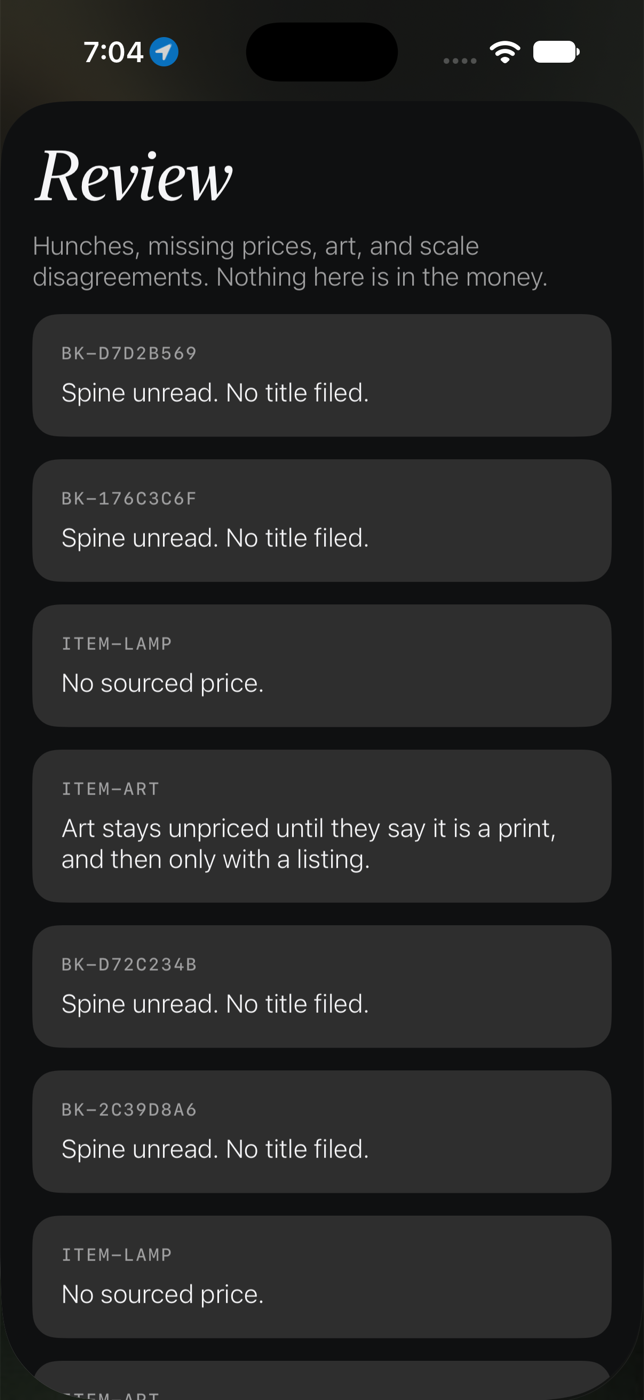
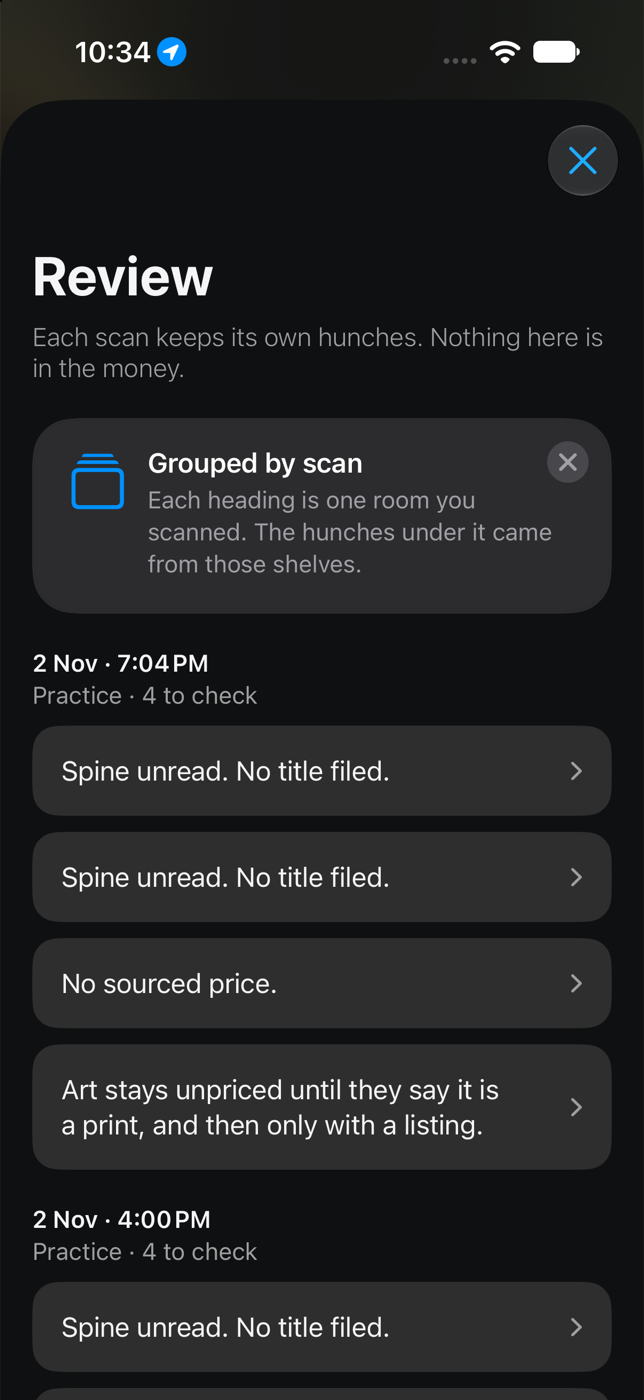
Document the shelf scan: the first-open sheet, Scan shelves, and the current screens.

diff --git a/Sweep/Views/HomeView.swift b/Sweep/Views/HomeView.swift
@@ -15,6 +15,8 @@ struct HomeView: View {
     @State private var showHistory = false
     @State private var showReview = false
     @State private var showSettings = false
+    @AppStorage("sweep.didSeeOnboarding") private var didSeeOnboarding = false
+    @State private var showOnboarding = false
 
     var body: some View {
         GeometryReader { geo in
@@ -36,14 +38,14 @@ struct HomeView: View {
                             showHistory = true
                         } label: { latestCard(radius: corner - edge, bottomInset: 0) }
                             .buttonStyle(.plain)
-                            .popoverTip(LatestWalkTip(), arrowEdge: .bottom)
+                            .modifier(GatedTip(tip: LatestWalkTip(), show: didSeeOnboarding, arrow: .bottom))
                         Button {
                             ReviewTip().invalidate(reason: .actionPerformed)
                             Walkthrough.advance(to: 2)
                             showReview = true
                         } label: { reviewCard(radius: corner - edge, bottomInset: 0) }
                             .buttonStyle(.plain)
-                            .popoverTip(ReviewTip(), arrowEdge: .bottom)
+                            .modifier(GatedTip(tip: ReviewTip(), show: didSeeOnboarding, arrow: .bottom))
                     }
                     .frame(maxWidth: .infinity, maxHeight: .infinity)
                     .padding(.horizontal, edge)
@@ -57,6 +59,7 @@ struct HomeView: View {
         .onAppear {
             place.start()
             model.reload()
+            if !didSeeOnboarding { showOnboarding = true }
         }
         .task { await Walkthrough.watch(StartWalkTip(), advanceTo: 1) }
         .task { await Walkthrough.watch(ReviewTip(), advanceTo: 2) }
@@ -76,6 +79,15 @@ struct HomeView: View {
         .sheet(isPresented: $showSettings) {
             SettingsView()
         }
+        .sheet(isPresented: $showOnboarding, onDismiss: finishOnboarding) {
+            OnboardingSheet(done: { showOnboarding = false })
+        }
+    }
+
+    private func finishOnboarding() {
+        didSeeOnboarding = true
+        StartWalkTip().invalidate(reason: .actionPerformed)
+        Walkthrough.advance(to: 1)
     }
 
     private func glassHero(topInset: CGFloat, corner: CGFloat) -> some View {
@@ -98,7 +110,7 @@ struct HomeView: View {
                         .foregroundStyle(.black)
                         .frame(width: 68, height: 68)
                         .background(.white, in: Circle())
-                    Text("Start walk")
+                    Text("Scan shelves")
                         .font(.headline)
                     Text("One room")
                         .font(.footnote)
@@ -107,8 +119,7 @@ struct HomeView: View {
                 .foregroundStyle(.white)
             }
             .buttonStyle(.plain)
-            .accessibilityLabel("Start a walk of one room")
-            .popoverTip(StartWalkTip(), arrowEdge: .top)
+            .accessibilityLabel("Scan the shelves in one room")
             .padding(.bottom, 28)
         }
         .frame(maxWidth: .infinity, maxHeight: .infinity, alignment: .top)
@@ -160,7 +171,7 @@ struct HomeView: View {
                 }
                 .buttonStyle(.plain)
                 .accessibilityLabel("Practice the rules")
-                .popoverTip(PracticeTip(), arrowEdge: .bottom)
+                .modifier(GatedTip(tip: PracticeTip(), show: didSeeOnboarding, arrow: .bottom))
                 Spacer()
                 Button {
                     showSettings = true
@@ -311,6 +322,51 @@ struct HomeView: View {
         return "\(latest.reviewCount)"
     }
 
+}
+
+private struct GatedTip<T: Tip>: ViewModifier {
+    var tip: T
+    var show: Bool
+    var arrow: Edge
+
+    func body(content: Content) -> some View {
+        if show {
+            content.popoverTip(tip, arrowEdge: arrow)
+        } else {
+            content
+        }
+    }
+}
+
+private struct OnboardingSheet: View {
+    var done: () -> Void
+
+    var body: some View {
+        VStack(alignment: .leading, spacing: 16) {
+            Text("Scan the shelves")
+                .font(.largeTitle.bold())
+            Text("Sweep reads the books in one room. Show each shelf, then end the scan.")
+                .font(.body)
+            Text("Titles it can name are filed. Anything unsure waits for you to check.")
+                .font(.body)
+                .foregroundStyle(.secondary)
+            Spacer(minLength: 12)
+            Button(action: done) {
+                Text("Continue")
+                    .font(.headline)
+                    .frame(maxWidth: .infinity)
+                    .padding(.vertical, 16)
+                    .background(.white, in: Capsule())
+                    .foregroundStyle(.black)
+            }
+            .buttonStyle(.plain)
+        }
+        .padding(24)
+        .padding(.top, 12)
+        .frame(maxWidth: .infinity, maxHeight: .infinity, alignment: .topLeading)
+        .presentationDetents([.medium])
+        .presentationDragIndicator(.visible)
+    }
 }
 
 /// Display corner radius in points. Apple's Liquid Glass layout calls this concentric:

diff --git a/Sweep/App/WalkthroughTips.swift b/Sweep/App/WalkthroughTips.swift
@@ -23,30 +23,30 @@ enum Walkthrough {
 }
 
 struct StartWalkTip: Tip {
-    var title: Text { Text("Start a walk") }
-    var message: Text? { Text("Show the shelves in one room. Sweep reads the spines as you go.") }
-    var image: Image? { Image(systemName: "figure.walk") }
+    var title: Text { Text("Scan shelves") }
+    var message: Text? { Text("Show each shelf in this room. Sweep reads the books as you go.") }
+    var image: Image? { Image(systemName: "books.vertical") }
     var options: [any TipOption] { Walkthrough.once }
 }
 
 struct EndWalkTip: Tip {
-    var title: Text { Text("End the walk") }
-    var message: Text? { Text("When the room is done, stop. Sweep reads the saved frames and files the packet.") }
+    var title: Text { Text("End the scan") }
+    var message: Text? { Text("When the room is done, stop. Sweep reads the saved frames and files the books.") }
     var image: Image? { Image(systemName: "checkmark.circle") }
     var options: [any TipOption] { Walkthrough.once }
 }
 
 struct ReviewTip: Tip {
     var title: Text { Text("Check hunches") }
-    var message: Text? { Text("Open this when a walk needs a person. Keep a title that is right, or remove it.") }
+    var message: Text? { Text("Unsure books wait here. Keep a title that is right, or remove it.") }
     var image: Image? { Image(systemName: "checklist") }
     var rules: [Rule] { #Rule(Walkthrough.$step) { $0 >= 1 } }
     var options: [any TipOption] { Walkthrough.once }
 }
 
 struct ReviewPageTip: Tip {
-    var title: Text { Text("Grouped by walk") }
-    var message: Text? { Text("Each heading is one walk. The hunches under it came from that walk.") }
+    var title: Text { Text("Grouped by scan") }
+    var message: Text? { Text("Each heading is one room you scanned. The hunches under it came from those shelves.") }
     var image: Image? { Image(systemName: "rectangle.stack") }
     var options: [any TipOption] { Walkthrough.once }
 }

diff --git a/Sweep/Views/ArchiveViews.swift b/Sweep/Views/ArchiveViews.swift
@@ -12,7 +12,7 @@ struct WalksView: View {
                 VStack(alignment: .leading, spacing: 14) {
                     PageTitle(
                         title: "Walks",
-                        subtitle: "Each finished walk keeps its packet. Confirming a hunch writes the next version."
+                        subtitle: "Each finished scan keeps its packet. Confirming a hunch writes the next version."
                     )
                     Button {
                         practice = SweepSession(settings: model.settings, store: model.store, practice: true)
@@ -30,7 +30,7 @@ struct WalksView: View {
                     .buttonStyle(.plain)
                     .accessibilityLabel("Practice the rules")
                     if model.sessions.isEmpty {
-                        EmptyNote(text: "No walks yet. Start one from Home, or practice the rules.")
+                        EmptyNote(text: "No scans yet. Scan the shelves from Home, or practice the rules.")
                     }
                     ForEach(model.sessions) { summary in
                         NavigationLink {
@@ -76,7 +76,7 @@ struct ReviewView: View {
                 VStack(alignment: .leading, spacing: 22) {
                     PageTitle(
                         title: "Review",
-                        subtitle: "Each walk keeps its own hunches. Nothing here is in the money."
+                        subtitle: "Each scan keeps its own hunches. Nothing here is in the money."
                     )
                     TipView(ReviewPageTip())
                     let walks = reviewWalks

diff --git a/Sweep/Views/WalkView.swift b/Sweep/Views/WalkView.swift
@@ -84,7 +84,7 @@ struct WalkView: View {
         let filed = session.engine.books.filter { !$0.excluded }
         let rows = session.packet == nil ? Array(filed.suffix(4)) : filed
         return VStack(alignment: .leading, spacing: 6) {
-            Text(filed.isEmpty ? "Walk this room once, then end the walk." : "\(filed.count) \(filed.count == 1 ? "book" : "books")")
+            Text(filed.isEmpty ? "Show each shelf, then end the scan." : "\(filed.count) \(filed.count == 1 ? "book" : "books")")
                 .font(.subheadline.weight(.semibold))
                 .foregroundStyle(Theme.ash)
             Group {
@@ -160,7 +160,7 @@ struct WalkView: View {
     private var walkButton: String {
         if session.packet != nil { return "Done" }
         if session.reading || session.engine.phase == .finishing { return "Reading" }
-        return "End walk"
+        return "End scan"
     }
 
     private func begin() async {
@@ -205,7 +205,7 @@ struct SpineGuide: View {
     var straighten: Bool
 
     var body: some View {
-        Label(straighten ? "Hold still" : "Walk the shelf", systemImage: straighten ? "pause.circle" : "figure.walk")
+        Label(straighten ? "Hold still" : "Along the shelf", systemImage: straighten ? "pause.circle" : "books.vertical")
             .font(.headline)
             .foregroundStyle(Theme.cloud)
             .padding(.horizontal, 18)

diff --git a/README.md b/README.md
@@ -37,9 +37,9 @@ The product is one continuous pass of one room. The person is not asked to pull 
 
 | Requirement | What the app does |
 | --- | --- |
-| iPhone, no LiDAR | ARKit motion tracking plus on-device Vision. No RoomPlan. |
+| iPhone, no LiDAR | ARKit motion tracking plus on-device Vision. No RoomPlan. The phone’s tilt is not used for the interface. |
 | Scale | A bank card, ISO ID-1, 85.60 mm by 53.98 mm. Books use the card. The room uses the card’s correction of the tracking. If they disagree past the threshold, both numbers stay on the packet and they are not averaged. |
-| Eyes | Vision text, rectangles, image classification, blur, and glare. Frames are not sent to a cloud OCR. |
+| Eyes | Vision text, rectangles, image classification, blur, and glare. Frames are not sent to a cloud OCR. The camera stays off until Scan shelves. |
 | Mouth | The state machine chooses the sentence. Gemini Live may speak that sentence when a key is present. The model is never asked for a title, a price, or a total. |
 | Ear | On-device speech. An unclear phrase can be classified by Gemini into a fixed list: confirm, first edition, skip shelf, print, original, United States dollars, or none. |
 | Locale | The running app reads the country and currency from the phone’s location and starts the walk. The assignment text still says the claim locale is confirmed out loud or with a chip. That question was removed because it stopped the scan. |
@@ -62,29 +62,39 @@ Those bars were not met on the shelves that were graded. The comparison is in [H
 
 ## Pages
 
+### First open
+
+The first launch is one bottom sheet. It says what the app does: Sweep reads the books in one room, you show each shelf and end the scan, named titles are filed, and anything unsure waits to be checked. **Continue** closes it. It does not show again.
+
+![The first-open sheet. Scan the shelves, then Continue.](docs/screenshots/onboarding.png)
+
 ### Home
 
-The count is identified books on the latest finished packet. The city and the currency come from location. On this simulator that resolved to New York and USD. On the phone it is the city the phone is in. The dial’s plus starts one room. **Practice** starts the scripted replay. **Sweep** opens Settings. The left card opens Walks. The right card opens Review.
+The count is identified books on the latest finished packet. The city and the currency come from location. On this simulator that resolved to New York and USD. On the phone it is the city the phone is in. The large glass is 35/48 of the screen. The two cards share the rest, with a 12-point gap between the glass and the cards, between the cards, and at the sides and the bottom. The plus says **Scan shelves**, and the line under it says **One room**. **Practice** starts the scripted replay. The gear opens Settings. **Latest walk** opens the list of scans. **To review** opens the hunches.
 
-![Home. Books identified, the located city and currency, Practice, One room, the latest packet, and the review count.](docs/screenshots/home.png)
+There is no motion dial. The background drifts on its own.
 
-### The walk
+![Home. Scan shelves for one room, the located city and currency, the latest packet, and the review count.](docs/screenshots/home.png)
 
-Plus opens the camera and the walk starts. There is no currency question. The line under the picture says to walk the room once, then end the walk. Spines show up as they are logged. **End walk** is the only way it finishes. The phone then reads the saved frames, prices what it can, and speaks the count. The simulator picture is black because there is no camera. On the phone this is the live preview.
+After the sheet, TipKit shows one tip at a time. Closing a tip, or using the control it points at, reveals the next. The order is check hunches, then latest walk, then practice. A real scan also gets a tip on **End scan**. The review page gets a tip the first time it opens, explaining that the list is grouped by scan.
 
-![The walk, before any book is logged. End walk is the only way out.](docs/screenshots/walk.png)
+### The scan
+
+**Scan shelves** opens the camera and the scan starts. There is no currency question. The line under the picture says to show each shelf, then end the scan. Spines show up as they are logged. **End scan** is the only way it finishes. The phone then reads the saved frames, prices what it can, and speaks the count. The simulator picture is black because there is no camera. On the phone this is the live preview.
+
+![The scan, before any book is logged. End scan is the only way out.](docs/screenshots/walk.png)
 
 After a finished pass the same screen reads the result back. This one is the practice replay: three books, one identified, a sourced total, and four lines that still need a person.
 
-![The spoken result after a practice walk.](docs/screenshots/practice.png)
+![The spoken result after a practice scan.](docs/screenshots/practice.png)
 
-During a real walk the voice asks at most twice. You can still answer if it asked something. Most of the time you only show the shelves.
+During a real scan the voice asks at most twice. You can still answer if it asked something. Most of the time you only show the shelves.
 
 ### Walks
 
-Every finished walk stays in the list. A practice row is labeled practice. Opening a row opens the packet. **Practice the rules** runs the same rules on scripted observations and is not a claim.
+Every finished scan stays in the list. A practice row is labeled practice. Opening a row opens the packet. **Practice the rules** runs the same rules on scripted observations and is not a claim. A row that says “Walk open” was started and not finished, so it has no packet yet.
 
-![Walks. Practice the rules, and one row per finished walk.](docs/screenshots/walks.png)
+![Walks. Practice the rules, and one row per scan.](docs/screenshots/walks.png)
 
 ### Packet
 
@@ -101,9 +111,9 @@ Identified books do not get those buttons. The packet in the screenshot is the p
 
 ### Review
 
-Review is the task list. Nothing on it is in the money. The rows in this shot are unread spines, a lamp with no listing, and framed art that stays unpriced until someone says it is a print and a listing exists. Those rows are not hunches, so they have no check and no cross. A hunch row shows the candidate title and the two buttons.
+Review is the task list, grouped by the scan the lines came from. Each heading is the date and time of that scan, then the version or the practice label, and how many lines are left to check. Nothing on the page is in the money. The rows in this shot are unread spines, a book with no sourced price, and framed art that stays unpriced until someone says it is a print and a listing exists. Those rows are not hunches, so they have no check and no cross. A hunch row shows the candidate title and the two buttons. The tip at the top is the one-time TipKit note for this page.
 
-![Review. Unread spines, an unpriced lamp, and art that stays unpriced.](docs/screenshots/review.png)
+![Review, grouped by scan. Unread spines, a missing price, and art that stays unpriced.](docs/screenshots/review.png)
 
 ### Settings
 
@@ -137,7 +147,7 @@ These are the parts that took the time, because a wrong book is worse than a mis
 - A first edition, a signed book, a book first published before 1850, and a price at or above the threshold go to a person. The title is kept. The price is cleared. Framed art stays in appraisal until the person says it is a print, and it still has no price until a listing exists.
 - The report pass reads the saved frames after **End walk**, instead of trusting whichever frame happened to be sharp while the phone was moving. The whole frame is kept when it is already a clear shelf. Slices are used when the full frame is smeared and the slices recover real words.
 - Speech does not invent a title, a price, or a total. The sentence comes from the phone. Gemini, when a key is present, may speak that sentence or classify an unclear phrase into the fixed list.
-- The home layout was put back after it got pulled in from the edges. The glass runs edge to edge. The two cards keep a gap. The count says books identified.
+- The home glass runs edge to edge and takes 35/48 of the screen. The two cards sit in the rest, with a 12-point gap on the sides, the bottom, between the cards, and between the glass and the cards. The plus says Scan shelves, because that is the thing the button does. The count says books identified.
 
 ## How the reading changed
 
@@ -215,6 +225,14 @@ The app was built in this order. Each pass was a response to a run on the phone 
 
 9. **Hunches you can keep or drop.** On the packet page and on Review, each hunch has a check and a cross. Check searches that book online again and prices it. Cross removes it from the totals and leaves the line in the file. Identified books are left alone.
 
+10. **The screen, in Apple’s language.** The italic wordmark, the motion dial, and the tracked capital labels came off. The type is the system face. Practice is a capsule, Settings is the gear, and the background drifts on its own. The phone’s tilt is not read.
+
+11. **The home proportion.** The glass is 35/48 of the screen. The cards share what is left. The gap is 12 points at the sides, the bottom, between the two cards, and between the glass and the cards. The outer card corners follow the iPhone 17’s display curve.
+
+12. **Review, one scan at a time.** To review no longer mixes every hunch into one list. Each scan has its own heading, and only the lines from that scan sit under it.
+
+13. **A first sheet, then TipKit.** The first open is one bottom sheet that says Sweep reads the books on the shelves. The primary button says **Scan shelves**, not “start a walk”, because that is the action. After Continue, TipKit points at the remaining controls one at a time: hunches, the latest packet, practice, and end scan.
+
 ## Layout of the code
 
 - `Sweep/Domain/WalkEngine.swift` chooses the phase and the sentence.
@@ -227,4 +245,5 @@ The app was built in this order. Each pass was a response to a run on the phone 
 - `Sweep/Domain/PacketBuilder.swift` sums the lines and builds the review queue. Totals are not typed in by hand.
 - `Sweep/Domain/ReportRenderer.swift` writes the HTML report.
 - `Sweep/Domain/PracticeWalk.swift` is the scripted replay. It is labeled practice.
-- `Sweep/Views` is Home, the walk, Walks, the packet, Review, and Settings.
+- `Sweep/Views` is Home, the scan, Walks, the packet, Review, and Settings.
+- `Sweep/App/WalkthroughTips.swift` is the TipKit sequence. The first-open sheet lives on Home.
